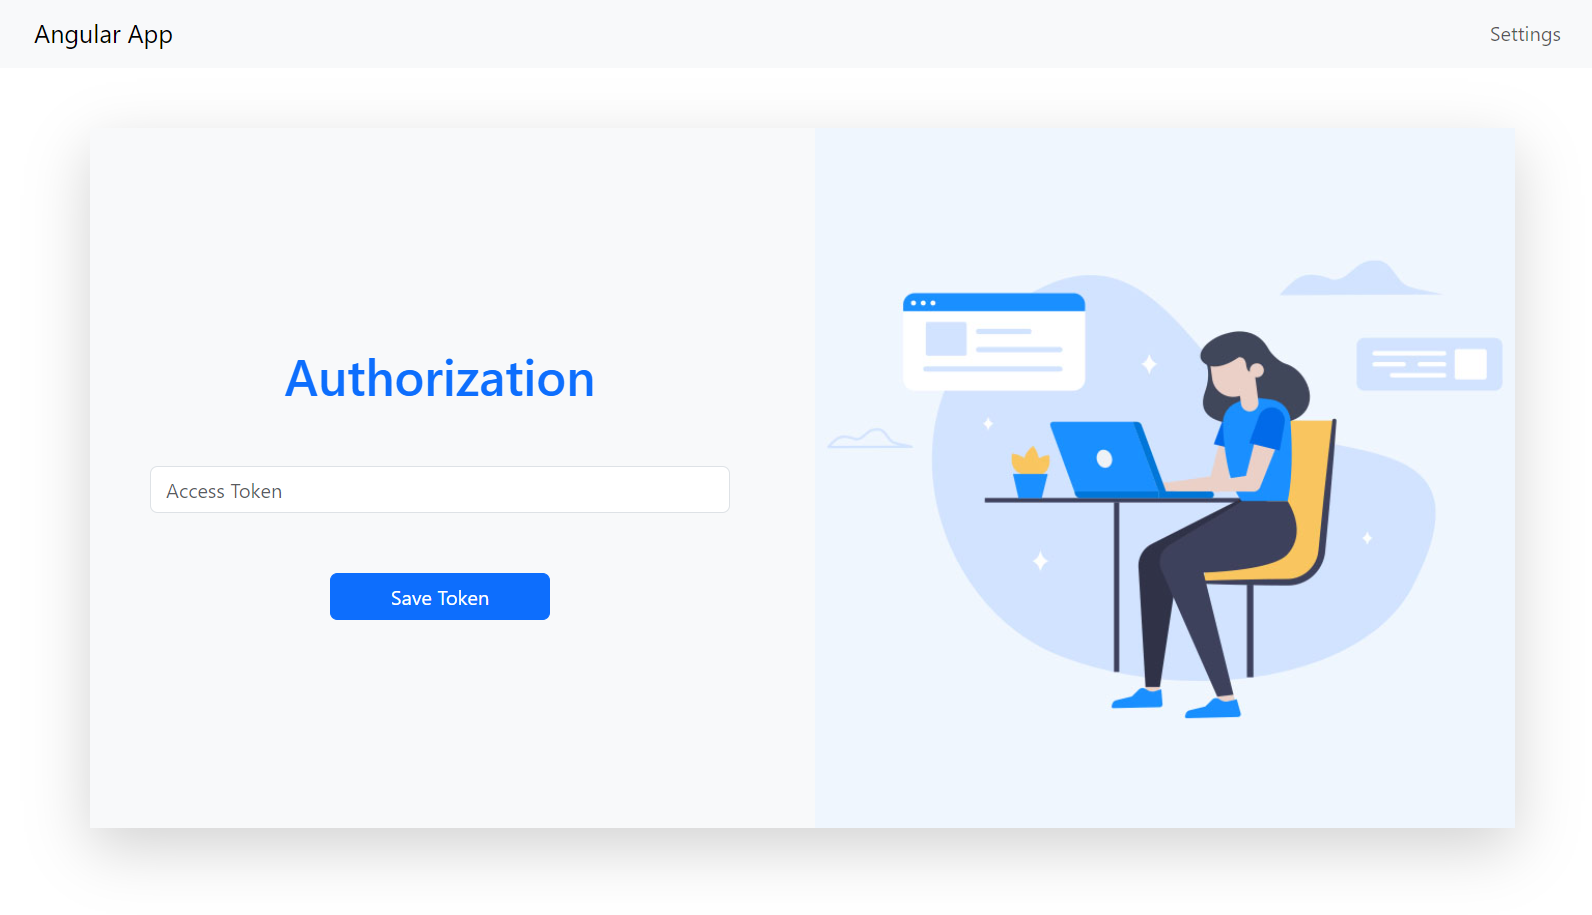
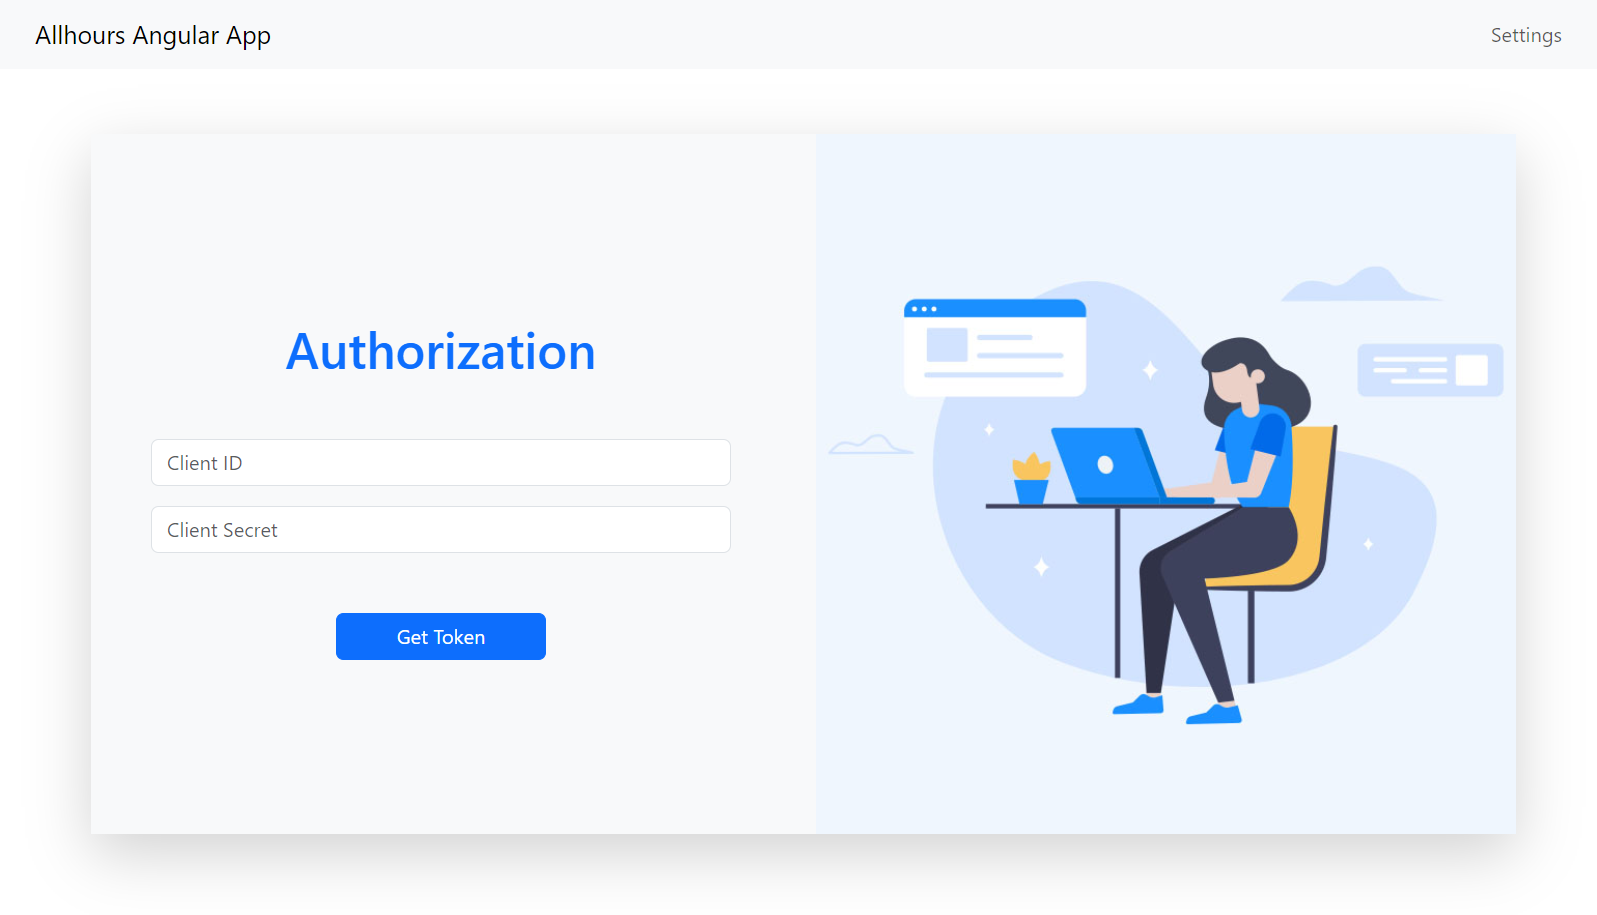
update project: client id and client secret

diff --git a/src/app/services/AppService.service.ts b/src/app/services/AppService.service.ts
@@ -1,9 +1,10 @@
 import { Injectable } from "@angular/core";
 import { HttpClient, HttpHeaders } from "@angular/common/http";
-import { Observable, BehaviorSubject } from "rxjs";
+import { Observable, BehaviorSubject, of, throwError } from "rxjs";
+import { map, tap, mapTo, catchError } from "rxjs/operators";
 import { TokenObject } from "../models/authentication";
 import { User, UserRequest } from "../models/user";
-import { TOKEN, TOKEN_EXPIRATION_DATE } from "../utils/constants";
+import { CLIENT_ID, CLIENT_SECRET, TOKEN, TOKEN_EXPIRATION_DATE } from "../utils/constants";
 import { Absence } from "../models/absence";
 
 @Injectable({
@@ -11,6 +12,7 @@ import { Absence } from "../models/absence";
 })
 export class AppService {
   private tokenSubject = new BehaviorSubject<boolean>(this.checkTokenAvailability());
+
   constructor(private http: HttpClient) { }
 
   public getTokenStatus(): Observable<boolean> {
@@ -37,23 +39,61 @@ export class AppService {
   }
 
   public checkTokenAvailability() {
-    return localStorage.getItem(TOKEN) !== null;
-  }
-
-  public checkIfTokenIsUnavailable() {
     const tokenExpirationDateString = localStorage.getItem(TOKEN_EXPIRATION_DATE);
     if (tokenExpirationDateString) {
       const tokenExpirationDate = new Date(tokenExpirationDateString);
       const dateNow = new Date();
-      return Math.round(tokenExpirationDate.getTime() / 3600000) - Math.round(dateNow.getTime() / 3600000) >= 1;
+      return tokenExpirationDate.getTime() > dateNow.getTime();
     }
-    return true;
+    return false; // Token is not available if expiration date is missing
+  }
+
+  public checkIfTokenIsUnavailable() {
+    return localStorage.getItem(TOKEN) !== null;
+  }
+
+  // Fetch access token
+  private fetchAccessToken(clientId: string, clientSecret: string): Observable<string> {
+    const body = new URLSearchParams();
+    body.set('grant_type', 'client_credentials');
+    body.set('client_id', clientId);
+    body.set('client_secret', clientSecret);
+    body.set('scope', 'api');
+
+    return this.http.post<{ access_token: string }>('/connect/token', body.toString(), {
+      headers: new HttpHeaders({
+        'Content-Type': 'application/x-www-form-urlencoded'
+      })
+    }).pipe(
+      map(response => response.access_token),
+      catchError(error => {
+        console.error('Error fetching access token:', error);
+        return throwError('Failed to fetch access token');
+      })
+    );
+  }
+  
+
+  public authenticate(clientId: string, clientSecret: string): Observable<void> {
+    if (!this.checkTokenAvailability()) {
+      return this.fetchAccessToken(clientId, clientSecret).pipe(
+        tap(token => {
+          this.saveAccessToken(token);
+          console.log('Access Token:', token);
+        }),
+        mapTo(void 0)
+      );
+    } else {
+      console.log('Token is already available');
+      return of(void 0);
+    }
   }
 
   public getUsers(): Observable<User[]> {
     const token = localStorage.getItem(TOKEN);
     if (!token) {
       console.error('Token is missing!');
+      return throwError('Token is missing!');
     }
 
     const headers = new HttpHeaders({
@@ -61,7 +101,12 @@ export class AppService {
       'Authorization': `Bearer ${token}`
     });
 
-    return this.http.get<User[]>("https://api4.allhours.com/api/v1/Users", { headers });
+    return this.http.get<User[]>("https://api4.allhours.com/api/v1/Users", { headers }).pipe(
+      catchError(error => {
+        console.error('Error fetching users:', error);
+        return throwError('Failed to fetch users');
+      })
+    );
   }
 
   public addUsers(userRequest: UserRequest): Observable<any> {
@@ -70,8 +115,12 @@ export class AppService {
       'Content-Type': 'application/json',
       'Authorization': `Bearer ${token}`
     });
-    const options = { headers: headers };
-    return this.http.post("https://api4.allhours.com/api/v1/Users", userRequest, options);
+    return this.http.post("https://api4.allhours.com/api/v1/Users", userRequest, { headers }).pipe(
+      catchError(error => {
+        console.error('Error adding user:', error);
+        return throwError('Failed to add user');
+      })
+    );
   }
 
   public getAbsenceDefinitions(): Observable<any[]> {
@@ -80,18 +129,28 @@ export class AppService {
       'Content-Type': 'application/json',
       'Authorization': `Bearer ${token}`
     });
-    const options = { headers: headers };
-    return this.http.get<any[]>("https://api4.allhours.com/api/v1/AbsenceDefinitions", options);
+
+    return this.http.get<any[]>("https://api4.allhours.com/api/v1/AbsenceDefinitions", { headers }).pipe(
+      catchError(error => {
+        console.error('Error fetching absence definitions:', error);
+        return throwError('Failed to fetch absence definitions');
+      })
+    );
   }
 
-  public addNewAbsence(absence: Absence) {
+  public addNewAbsence(absence: Absence): Observable<any> {
     const token = localStorage.getItem(TOKEN);
     const headers = new HttpHeaders({
       'Content-Type': 'application/json',
       'Authorization': `Bearer ${token}`
     });
-    const options = { headers: headers };
-    return this.http.post("https://api4.allhours.com/api/v1/Absences", absence, options);
+
+    return this.http.post("https://api4.allhours.com/api/v1/Absences", absence, { headers }).pipe(
+      catchError(error => {
+        console.error('Error adding absence:', error);
+        return throwError('Failed to add absence');
+      })
+    );
   }
 
   public getAbsences(): Observable<Absence[]> {
@@ -100,17 +159,26 @@ export class AppService {
       'Content-Type': 'application/json',
       'Authorization': `Bearer ${token}`
     });
-    const options = { headers: headers };
-    return this.http.get<Absence[]>("https://api4.allhours.com/api/v1/Absences", options);
+
+    return this.http.get<Absence[]>("https://api4.allhours.com/api/v1/Absences", { headers }).pipe(
+      catchError(error => {
+        console.error('Error fetching absences:', error);
+        return throwError('Failed to fetch absences');
+      })
+    );
   }
 
-  public editAbsence(absence: Absence) {
+  public editAbsence(absence: Absence): Observable<any> {
     const token = localStorage.getItem(TOKEN);
     const headers = new HttpHeaders({
       'Content-Type': 'application/json',
       'Authorization': `Bearer ${token}`
     });
-    const options = { headers: headers };
-    return this.http.put(`https://api4.allhours.com/api/v1/Absences/${absence.Id}`, absence, options);
+    return this.http.put(`https://api4.allhours.com/api/v1/Absences/${absence.Id}`, absence, { headers }).pipe(
+      catchError(error => {
+        console.error('Error editing absence:', error);
+        return throwError('Failed to edit absence');
+      })
+    );
   }
 }

diff --git a/src/app/pages/settings/settings.component.html b/src/app/pages/settings/settings.component.html
@@ -1,16 +1,19 @@
 <div class="container bg-light mt-5 shadow-lg" style="height: 35rem; padding: 0">
-  <div class="d-flex flex-column flex-md-row " style="height: 100%; width: 100%;">
+  <div class="d-flex flex-column flex-md-row" style="height: 100%; width: 100%;">
     <div class="form-container" style="flex: 1;">
       <div class="d-flex flex-column justify-content-center h-100 p-5" *ngIf="!authentication">
         <div class="pt-2">
           <h1 class="text-center text-primary mb-5">Authorization</h1>
           <div class="border-2 border-danger bg-danger rounded" *ngIf="wrongCredentials">
-            <p class="text-white text-center">Please enter a valid access token</p>
+            <p class="text-white text-center">Invalid credentials, cannot generate token.</p>
           </div>
-          <input class="form-control" type="text" [(ngModel)]="accessToken" placeholder="Access Token">
-        </div>
-        <div class="text-center mt-5">
-          <button class="btn btn-primary px-5" (click)="saveCredentials()">Save Token</button>
+          <div>
+            <input type="text" [(ngModel)]="clientId" placeholder="Client ID" class="form-control mb-3" />
+            <input type="password" [(ngModel)]="clientSecret" placeholder="Client Secret" class="form-control mb-3" />
+            <div class="text-center mt-5">
+              <button class="btn btn-primary px-5" (click)="checkCredentialsAvailability()">Get Token</button>
+            </div>
+          </div>
         </div>
       </div>
       <div *ngIf="authentication" class="d-flex flex-column justify-content-center w-100 h-100">

diff --git a/src/app/pages/settings/settings.component.ts b/src/app/pages/settings/settings.component.ts
@@ -11,6 +11,8 @@ export class SettingsComponent implements OnInit {
   accessToken: string = '';
   wrongCredentials: boolean = false;
   authentication: boolean = false;
+  clientId: string = '';
+  clientSecret: string = '';
 
   constructor(private appService: AppService, private cdr: ChangeDetectorRef) { }
 
@@ -29,19 +31,30 @@ export class SettingsComponent implements OnInit {
     }
   }
 
-  private checkCredentialsAvailability() {
+  public checkCredentialsAvailability() {
     const token = localStorage.getItem(TOKEN);
-    if (token) {
-      this.authentication = true; // Update authentication status if token is valid
-      console.log('true')
+    if (this.clientId && this.clientSecret || token) {
+      this.appService.authenticate(this.clientId, this.clientSecret).subscribe({
+        next: () => {
+          this.authentication = true;
+          this.wrongCredentials = false;
+          this.cdr.detectChanges();
+        },
+        error: () => {
+          this.wrongCredentials = true;
+          this.authentication = false;
+          this.cdr.detectChanges();
+        }
+      });
     } else {
-      this.authentication = false; // Set to false if token is invalid or not found
-      console.log('false')
+      //this.wrongCredentials = true;
+      this.authentication = false;
+      this.cdr.detectChanges();
     }
   }
   
   public removeToken() {
-    this.appService.removeAccessToken(); // Remove token using the service method
+    this.appService.removeAccessToken();
     this.authentication = false;
     this.accessToken = '';
     this.cdr.detectChanges();

diff --git a/src/app/utils/constants.ts b/src/app/utils/constants.ts
@@ -1,4 +1,9 @@
-export const CLIENT_ID = "client_id";
-export const CLIENT_SECRET = "client_secret";
-export const TOKEN = "token";
-export const TOKEN_EXPIRATION_DATE = "tokenExpirationDate";
+export const TOKEN = 'access_token';
+export const TOKEN_EXPIRATION_DATE = 'token_expiration_date';
+
+// Client credentials for authentication
+export const CLIENT_ID = 'your-client-id-here';
+export const CLIENT_SECRET = 'your-client-secret-here';
+
+// API endpoint for generating tokens
+export const TOKEN_ENDPOINT = 'https://login.allhours.com/connect/token';

diff --git a/src/index.html b/src/index.html
@@ -2,7 +2,7 @@
 <html lang="en">
 <head>
     <meta charset="utf-8">
-    <title>YourAppName</title>
+    <title>Allhours Angular App</title>
     <base href="/">
     <meta name="viewport" content="width=device-width, initial-scale=1">
     <link rel="stylesheet" href="https://cdn.jsdelivr.net/npm/bootstrap@5.3.0/dist/css/bootstrap.min.css">

diff --git a/README.md b/README.md
@@ -35,45 +35,18 @@ The **Allhours REST API Project** is an application designed to interact with th
 The application will be available at http://localhost:4200/.
 
 
-## How to Obtain a Token Using Postman
+## How to Authenticate Using Client ID and Secret
 
-    Follow these steps to obtain an access token using Postman:
+    To authenticate with the Allhours API, you will need your client_id and client_secret. These credentials will allow you to securely access the API and perform operations such as managing users and absences.
 
-1. **Create a New Request**
+1. **Provide your credentials**
 
-    Open the Postman application.
-    Click the New button, then select Request.
+    When prompted, enter your client_id and client_secret in the application.
 
-2. **Set Up the Request**
+2. **Access the features**
 
-    Name your request (e.g., "Get Token").
-    Create a new collection if needed, then click Save.
+    Once authenticated, you will be able to access user management and absence management features.
 
-3. **HTTP Method and URL**
-
-    Select the POST method.
-    Enter the URL: https://login.allhours.com/connect/token
-
-4. **Configure Headers**
-
-    Click on the Headers tab.
-    Add a new header:
-    - Key: Content-Type
-    - Value: application/x-www-form-urlencoded
-
-5. **Configure the Request Body**
-
-    Click on the Body tab.
-    Select x-www-form-urlencoded.
-    - Add three key-value pairs:
-    - Key: grant_type, Value: client_credentials
-    - Key: client_id, Value: (your client ID)
-    - Key: client_secret, Value: (your client secret)
-
-6. **Send the Request**
-
-    Click the Send button.
-    In the response, you'll receive an access_token, which you can use in subsequent API calls by including it in the Authorization header in the format: Bearer <access_token>.
 
 ## Project Structure
 
